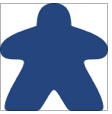
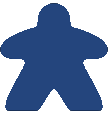
meeple drawn

diff --git a/GUI.java b/GUI.java
@@ -1,10 +1,10 @@
 package carcassonne;
 
 import java.awt.*;
+import java.awt.geom.AffineTransform;
+import java.awt.image.*;
 import javax.swing.*;
 import javax.swing.table.*;
-
-import carcassonne.RotatedIcon.Rotate;
 
 import java.lang.Integer;
 
@@ -79,10 +79,6 @@ class ImageRenderer extends DefaultTableCellRenderer {
     ImageIcon troad = new ImageIcon(getClass().getResource("Troad.png"));
     ImageIcon meeple = new ImageIcon(getClass().getResource("meeple.png"));
 
-    public ImageRenderer() {
-        super();
-    }
-
     public Component getTableCellRendererComponent(JTable table, Object value, boolean isSelected, boolean hasFocus, int row, int column) {
         // if (value.equals("emptytile.png"))
         //     lbl.setIcon(blank);
@@ -148,9 +144,17 @@ class ImageRenderer extends DefaultTableCellRenderer {
             img2 = new ImageIcon(meeple.getImage());
         }
         lbl.setText("(" + Integer.toString(column) + ", " + Integer.toString(row) + ")");
-        img = new RotatedIcon(img, Rotate.ABOUT_CENTER);
-        ((RotatedIcon) img).setDegrees(((Tile) value).rotations * 90.0);
-        lbl.setIcon(img);
+        // img = new RotatedIcon(img, Rotate.ABOUT_CENTER);
+        // ((RotatedIcon) img).setDegrees(((Tile) value).rotations * 90.0);
+        BufferedImage combined = new BufferedImage(220, 220, BufferedImage.TYPE_INT_ARGB);
+        Graphics2D g = combined.createGraphics();
+        AffineTransform old = g.getTransform();
+        g.rotate(((Tile) value).rotations * Math.PI / 2, 110, 110);
+        g.drawImage(((ImageIcon) img).getImage(), 0, 0, null);
+        g.setTransform(old);
+        g.drawImage(meeple.getImage(), 0, 0, null);
+        g.dispose();
+        lbl.setIcon(new ImageIcon(combined));
         return lbl;
     }
 }

diff --git a/Tile.java b/Tile.java
@@ -6,7 +6,7 @@ public class Tile {
 	public int[] types;
 	public int rotations;
 	public boolean[][] connected;
-	public int[] meeple; //array of length 14. [0] is the player, 1 is for type, 2-13 is for if the meeple is connected to the respective side. 
+	public int[] meeple; //array of length 15. [0] is the player, 1 is for type, 2-13 is for if the meeple is connected to the respective side. 
 	                     //0 if not connected, 1 if connected. NOTE - 0 is top left (https://tinyurl.com/yeyzkd96)
 	public String type;
 	
@@ -14,13 +14,13 @@ public class Tile {
 		this.type = "";
 		this.types = types;
 		this.connected = connected;
-		this.meeple = new int[] {-1, -1, 0, 0, 0, 0, 0, 0, 0, 0, 0, 0, 0, 0};
+		this.meeple = new int[] {-1, -1, 0, 0, 0, 0, 0, 0, 0, 0, 0, 0, 0, 0, -1};
 		this.rotations = 0;
 	}
 	
 	public Tile(String type) {
 		this.type = type;
-		this.meeple = new int[] {-1, -1, 0, 0, 0, 0, 0, 0, 0, 0, 0, 0, 0, 0};
+		this.meeple = new int[] {-1, -1, 0, 0, 0, 0, 0, 0, 0, 0, 0, 0, 0, 0, -1};
 		switch(type) {
 			case "allcity":
 				this.types = new int[] {2, 2, 2, 2};

diff --git a/Player.java b/Player.java
@@ -68,7 +68,7 @@ public class Player {
 			}
 			int[] meeplesPresent = new int[board.players.length]; //0 if no meeple from that player exists in the current search, 1 if yes
 			Integer scoore = 1;
-			scoring(x, y, board, scoore, meeplesPresent);
+			// scoring(x, y, board, scoore, meeplesPresent);
 
 		} 
 		
@@ -269,6 +269,7 @@ public class Player {
 		Tile tile = board.board[x][y];
 		int turn = board.turnCount % board.players.length;
 		tile.meeple[0] = turn;
+		tile.meeple[14] = position;
 
 		// New switch, case 1 edge, case 0 & 2 different side corners
 		switch (position % 3) {
